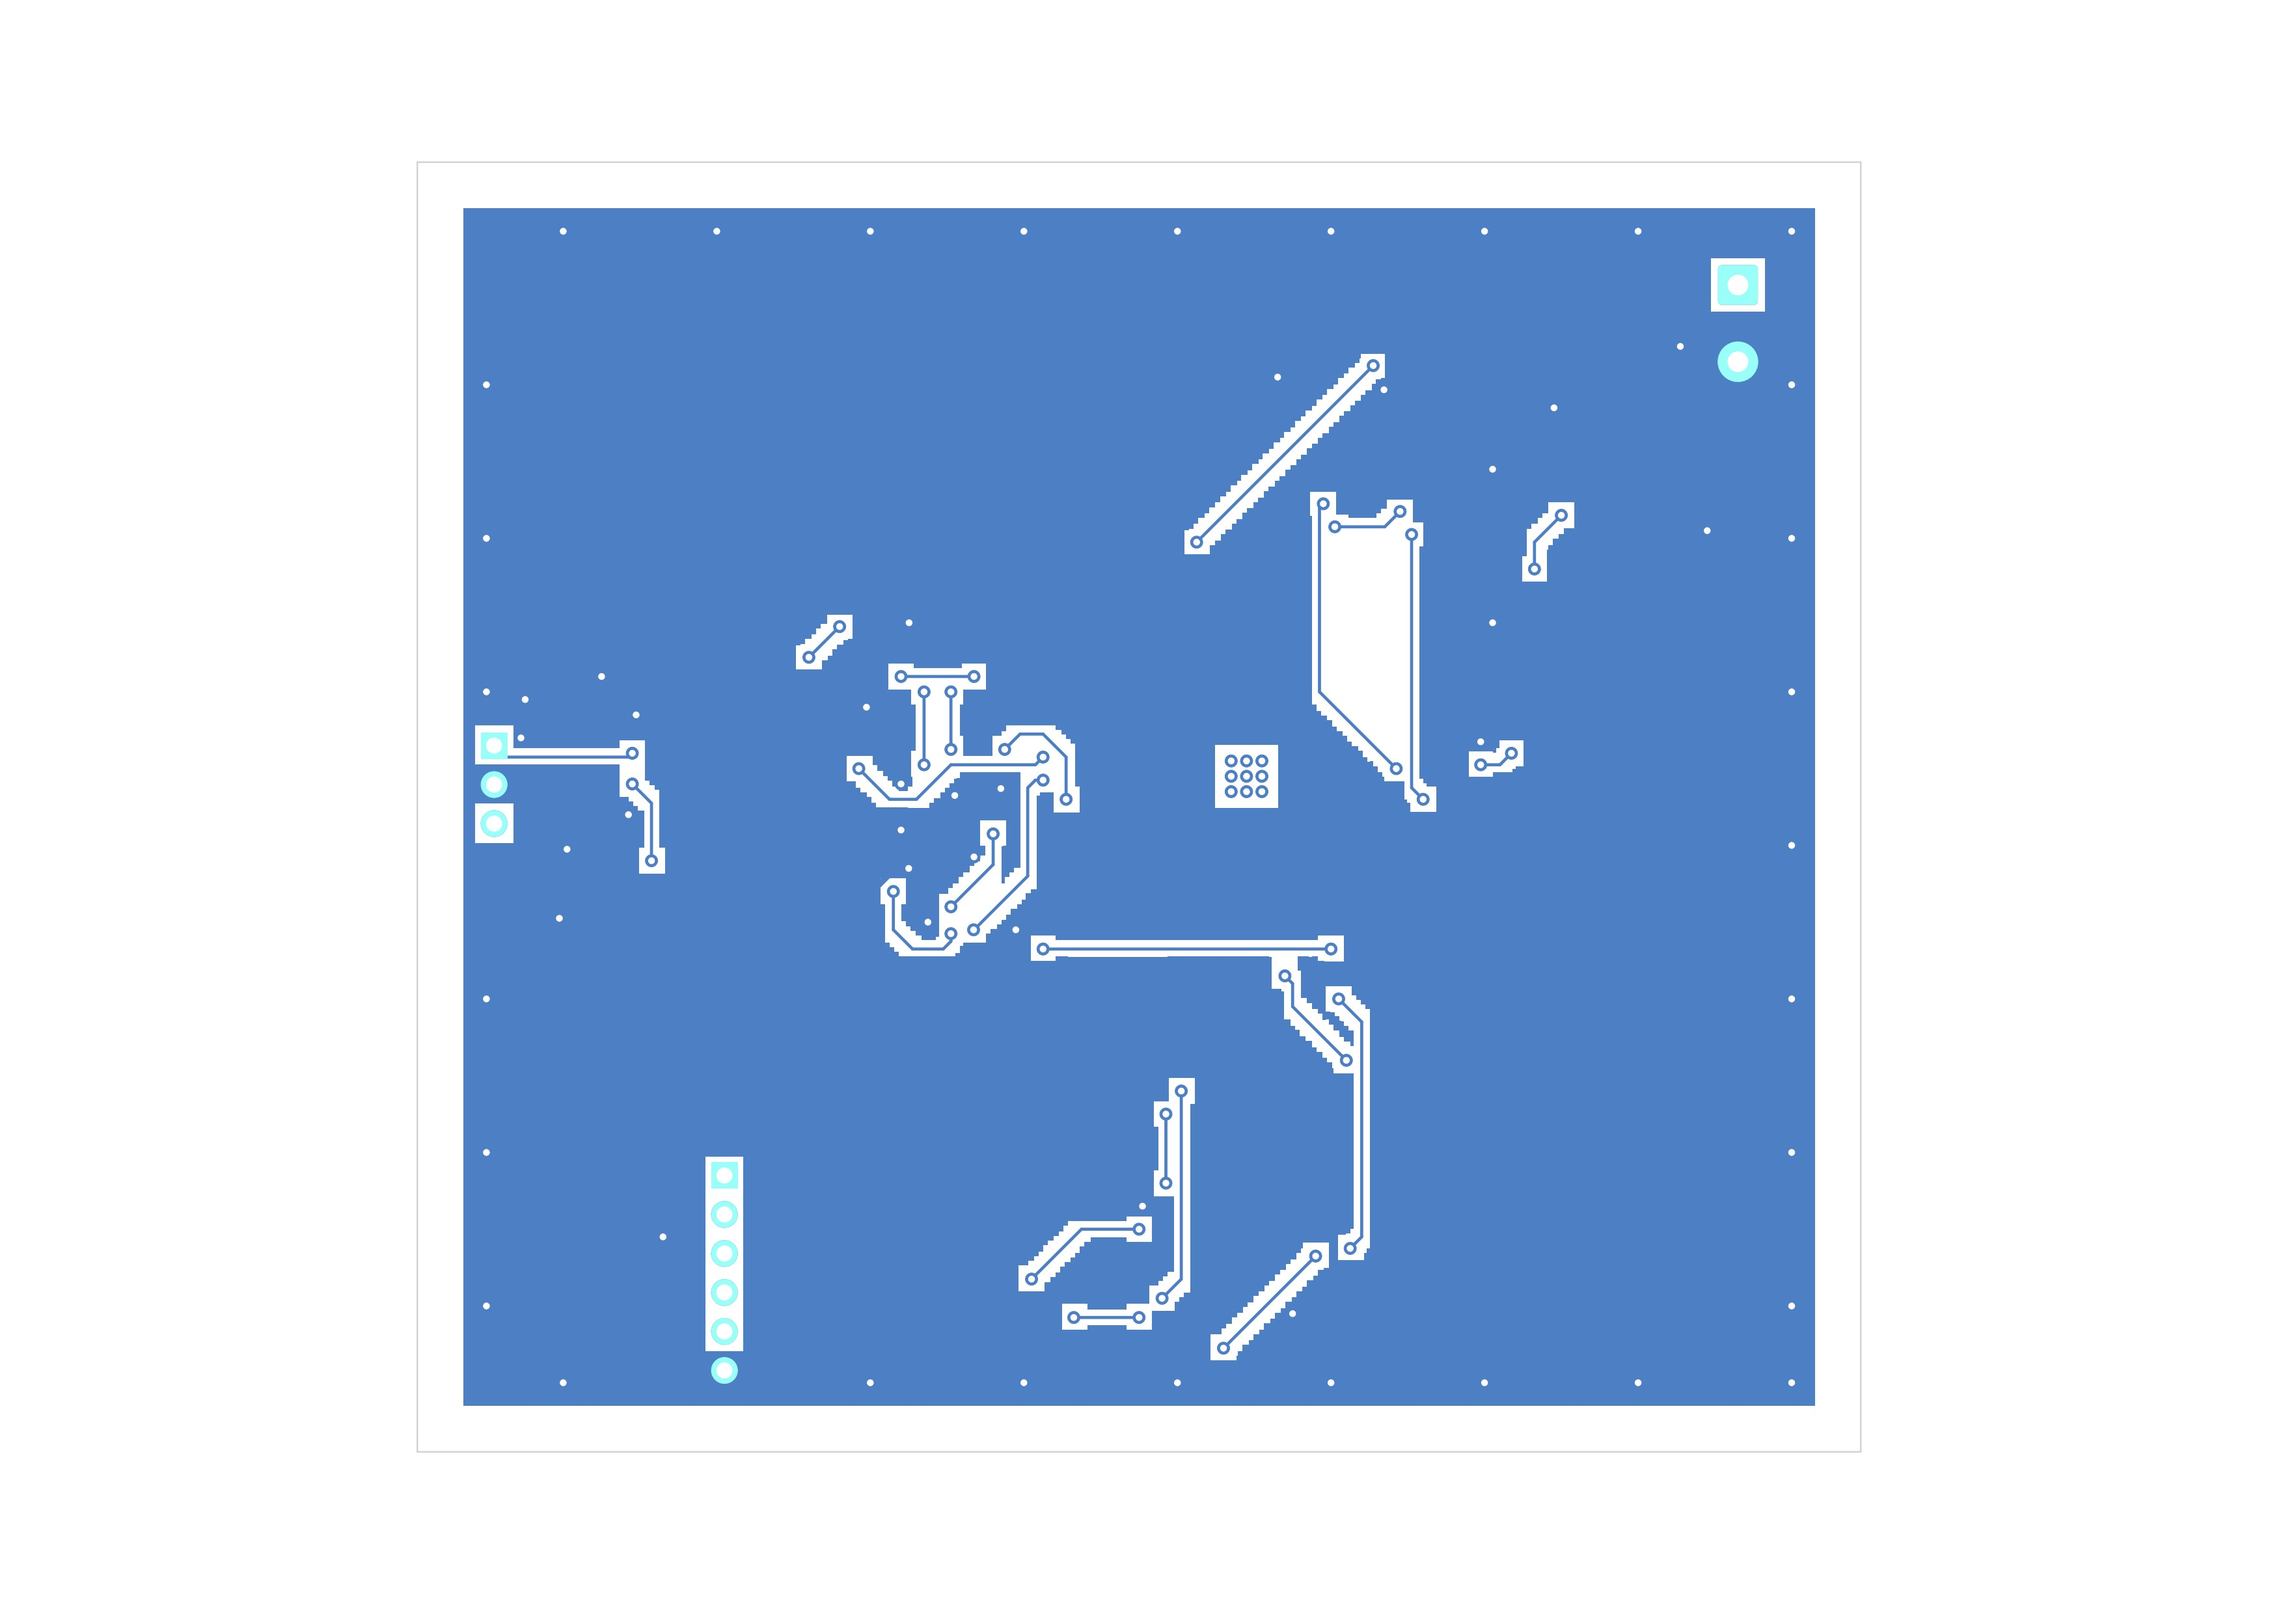
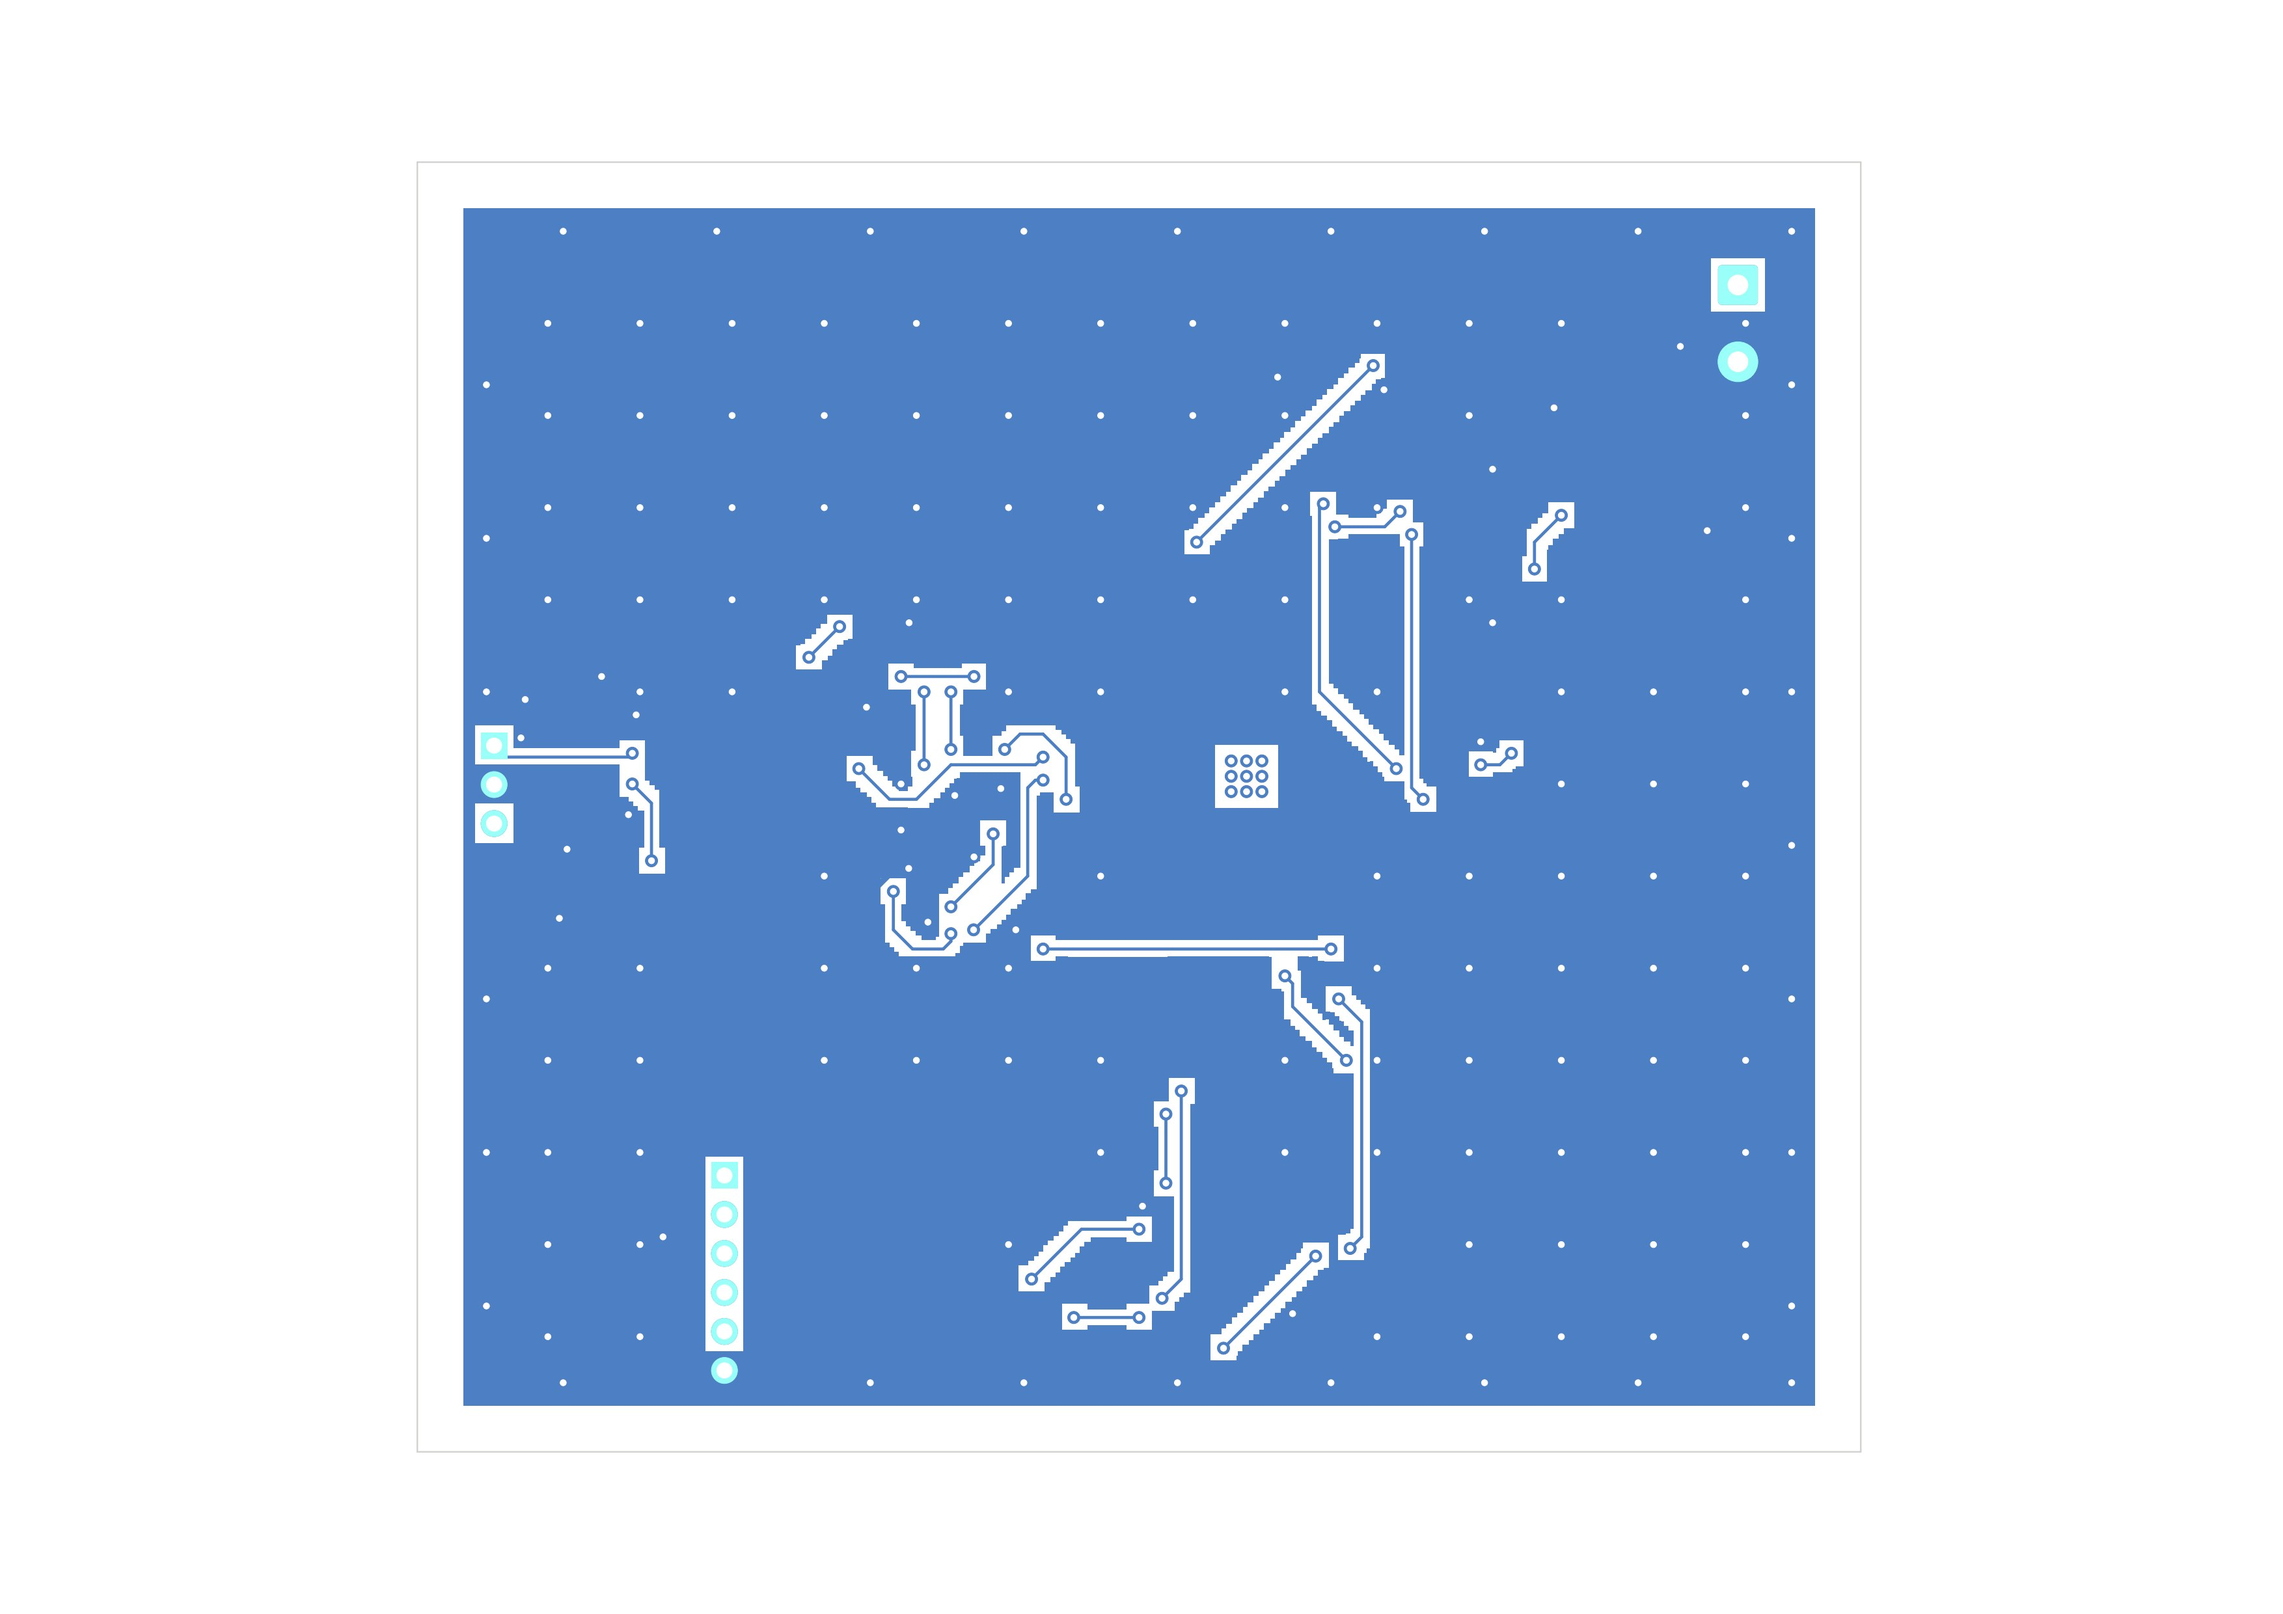
Finish round four: all five pass, and the plots show it
The FPGA sheet reads as blocks now and its board carries the same
interior stitching as the rest. Thirty renders redrawn, verdict tables
at today's numbers, and every reviewed project passes its own gate.

Claude-Session: https://claude.ai/code/session_01DUj7Ltu92tWg159mCSacwY

Changed region(s): [[0.5593, 0.3104, 0.6214, 0.4655]]

diff --git a/examples/README.md b/examples/README.md
@@ -326,7 +326,7 @@ a 1.2 V regulator for the core — on two layers.
 
 | | verdict | schematic (e/w/i) | board (e/w/i) |
 | --- | --- | --- | --- |
-| `reviewed` | **PASS**, 6 findings waived | 0 / 2 / 0 | 0 / 6 / 8 |
+| `reviewed` | **PASS**, 6 findings waived | 0 / 2 / 0 | 0 / 6 / 9 |
 | `as-generated` | **FAIL**, 26 blocking | — | — |
 
 Under KiCad's own checks `reviewed` has no DRC errors, nothing unconnected and
